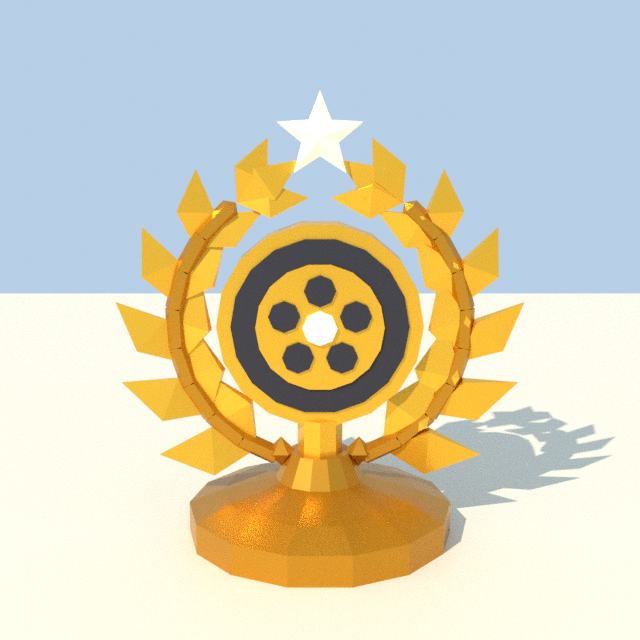
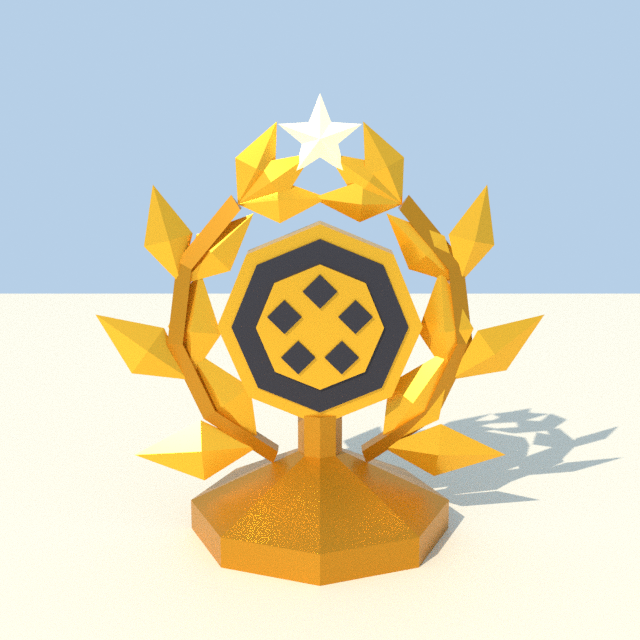
Lighter FilmCamera, TrophyGold, FestivalLaurel and PalmTree meshes
Same shapes and colors in far fewer triangles (camera 844 -> 290, trophy 604 -> 248,
laurel 1196 -> 386, palm 1084 -> 412); each script asserts its budget. Old vs new preview in
art/previews/lighter_props.png.

Changed region(s): [[0.1562, 0.1875, 0.9688, 0.9375]]

diff --git a/art/blender/festival_laurel.py b/art/blender/festival_laurel.py
@@ -18,7 +18,7 @@ import mmkit  # noqa: E402
 REEL_Z = 1.55  # reel centre height
 REEL_R = 0.72
 WREATH_R = 1.02  # leaves sit on this circle round the reel centre
-LEAVES = 6  # per branch
+LEAVES = 4  # per branch, in pairs
 
 
 def T(x, y, z):
@@ -30,19 +30,28 @@ def R(angle, axis):
 
 
 def leaf(m, mat, matrix, size=1.0):
-    """A pointed low-poly leaf in the XZ plane, along +Z from its stem at the origin."""
-    w, t = mmkit.studs(0.15 * size), mmkit.studs(0.04)
-    length = mmkit.studs(0.62 * size)
-    verts = [
-        (0, 0, 0),
-        (-w, -t, length * 0.45),
-        (w, -t, length * 0.45),
-        (0, 0, length),
-        (-w, t, length * 0.45),
-        (w, t, length * 0.45),
-    ]
-    faces = [(0, 2, 1), (1, 2, 3), (0, 1, 4), (0, 4, 5), (0, 5, 2), (4, 3, 5), (1, 3, 4), (2, 5, 3)]
+    """A pointed low-poly leaf in the XZ plane, along +Z from its stem at the origin: a ridge
+    on the front (-Y), flat at the back. 6 triangles."""
+    w, t = mmkit.studs(0.17 * size), mmkit.studs(0.07)
+    length = mmkit.studs(0.7 * size)
+    verts = [(0, 0, 0), (w, 0, length * 0.45), (0, 0, length), (-w, 0, length * 0.45), (0, -t, length * 0.45)]
+    faces = [(0, 1, 4), (1, 2, 4), (2, 3, 4), (3, 0, 4), (0, 3, 2, 1)]
     m._add(verts, faces, mat, matrix)
+
+
+def stalk(m, mat, side):
+    """The bent branch as one three-sided tube along the wreath circle."""
+    steps, r = 4, 0.08
+    rings = []
+    for i in range(steps + 1):
+        a = math.radians(-72 + 128 * i / steps)
+        c = Vector((side * math.cos(a) * WREATH_R, 0, REEL_Z + math.sin(a) * WREATH_R))
+        out = Vector((side * math.cos(a), 0, math.sin(a)))
+        rings.append([c + r * (math.cos(b) * out + math.sin(b) * Vector((0, 1, 0))) for b in (2 * math.pi * k / 3 for k in range(3))])
+    verts = [mmkit.studs(1) * v for ring in rings for v in ring]
+    faces = [(3 * i + k, 3 * i + (k + 1) % 3, 3 * i + 3 + (k + 1) % 3, 3 * i + 3 + k) for i in range(steps) for k in range(3)]
+    faces += [(0, 1, 2), (3 * steps + 2, 3 * steps + 1, 3 * steps)]
+    m._add(verts, faces, mat, Matrix.Identity(4))
 
 
 def build():
@@ -52,44 +61,26 @@ def build():
     film = m.mat("Charcoal", metallic=0.2)
     shine = m.mat("Light", emission=0.6)
 
-    # Round foot and a short stem up to the wreath.
-    m.lathe([(0, 0), (0.95, 0), (0.95, 0.22), (0.7, 0.32), (0.32, 0.42), (0.22, 0.62), (0, 0.62)], dark_gold, segments=14)
-    m.cylinder(0.16, 0.3, at=(0, 0, 0.72), mat=gold, segments=8)
+    # Round foot and the stem up to the wreath, in one piece.
+    m.lathe([(0.95, 0), (0.95, 0.22), (0.16, 0.6), (0.16, 0.9), (0, 0.9)], dark_gold, segments=8)
 
-    # The film reel, facing the front: a gold disc with a dark film band and five round holes.
+    # The film reel, facing the front: a gold disc with a dark film band and five holes.
     reel = T(0, 0, REEL_Z)
-    m.cylinder(REEL_R, 0.22, mat=gold, segments=18, matrix=reel, axis="Y")
-    m.cylinder(REEL_R * 0.86, 0.26, mat=film, segments=18, matrix=reel, axis="Y")
-    m.cylinder(REEL_R * 0.62, 0.3, mat=gold, segments=18, matrix=reel, axis="Y")
+    m.cylinder(REEL_R, 0.22, mat=gold, segments=8, matrix=reel, axis="Y")
+    m.cylinder(REEL_R * 0.86, 0.26, mat=film, segments=8, matrix=reel, axis="Y")
+    m.cylinder(REEL_R * 0.62, 0.3, mat=gold, segments=8, matrix=reel, axis="Y")
     for k in range(5):
         a = math.pi / 2 + 2 * math.pi * k / 5
         x, z = math.cos(a) * REEL_R * 0.36, math.sin(a) * REEL_R * 0.36
-        m.cylinder(0.11, 0.34, at=(x, 0, z), mat=film, segments=8, matrix=reel, axis="Y")
-    m.cylinder(0.12, 0.36, mat=shine, segments=8, matrix=reel, axis="Y")
+        m.cylinder(0.12, 0.34, at=(x, 0, z), mat=film, segments=4, matrix=reel, axis="Y")
 
     # Two laurel branches curving up either side of the reel, from the stem to near the top.
     for side in (-1, 1):
-        # The branch: a thin bent stalk of short segments.
-        steps = 8
-        for i in range(steps):
-            a0 = math.radians(-72 + 125 * i / steps)
-            a1 = math.radians(-72 + 125 * (i + 1) / steps)
-            p0 = Vector((side * math.cos(a0) * WREATH_R, 0, REEL_Z + math.sin(a0) * WREATH_R))
-            p1 = Vector((side * math.cos(a1) * WREATH_R, 0, REEL_Z + math.sin(a1) * WREATH_R))
-            mid = (p0 + p1) / 2
-            direction = (p1 - p0).normalized()
-            tilt = math.atan2(direction.x, direction.z)
-            half = (p1 - p0).length / 2
-            m.lathe(
-                [(0, -half - 0.05), (0.07, -half), (0.07, half), (0, half + 0.05)],
-                dark_gold,
-                segments=6,
-                matrix=T(mid.x, mid.y, mid.z) @ R(tilt, "Y"),
-            )
+        stalk(m, dark_gold, side)
         # Leaves in pairs along it, pointing up the branch and splaying in and out.
         for i in range(LEAVES):
             a = math.radians(-64 + 120 * i / (LEAVES - 1))
-            size = 1.15 - 0.35 * i / (LEAVES - 1)  # big at the foot, small at the tips
+            size = 1.3 - 0.4 * i / (LEAVES - 1)  # big at the foot, small at the tips
             cx, cz = side * math.cos(a) * WREATH_R, REEL_Z + math.sin(a) * WREATH_R
             # Tangent up the branch.
             tangent = math.atan2(side * -math.sin(a), math.cos(a))
@@ -99,9 +90,7 @@ def build():
                 leaf(m, gold, T(cx, 0, cz) @ R(lean, "Y") @ face_turn, size)
         # The leaf at the tip, straight on.
         tip = math.radians(56)
-        leaf(m, gold, T(side * math.cos(tip) * WREATH_R, 0, REEL_Z + math.sin(tip) * WREATH_R) @ R(math.atan2(side * -math.sin(tip), math.cos(tip)), "Y"), 0.85)
-        # A berry where the branch starts.
-        m.lathe([(0, -0.11), (0.11, 0), (0, 0.11)], dark_gold, segments=6, matrix=T(side * 0.28, 0, REEL_Z - WREATH_R + 0.08))
+        leaf(m, gold, T(side * math.cos(tip) * WREATH_R, 0, REEL_Z + math.sin(tip) * WREATH_R) @ R(math.atan2(side * -math.sin(tip), math.cos(tip)), "Y"), 0.9)
 
     # A little star on top, between the branch tips.
     star_z = REEL_Z + WREATH_R + 0.28
@@ -110,17 +99,16 @@ def build():
         r = 0.3 if k % 2 == 0 else 0.13
         a = math.pi / 2 + math.pi * k / 5
         points.append((math.cos(a) * r, math.sin(a) * r))
-    depth = mmkit.studs(0.1)
-    verts = [(mmkit.studs(x), -depth, mmkit.studs(z)) for x, z in points] + [(mmkit.studs(x), depth, mmkit.studs(z)) for x, z in points]
-    verts += [(0, -depth * 1.8, 0), (0, depth * 1.8, 0)]
+    # One outline ring and a pole front and back: a faceted star in 20 triangles.
+    depth = mmkit.studs(0.18)
+    verts = [(mmkit.studs(x), 0, mmkit.studs(z)) for x, z in points] + [(0, -depth, 0), (0, depth, 0)]
     faces = []
     for k in range(10):
         j = (k + 1) % 10
-        faces.append((20, j, k))
-        faces.append((21, 10 + k, 10 + j))
-        faces.append((k, j, 10 + j, 10 + k))
+        faces.append((10, j, k))
+        faces.append((11, k, j))
     m._add(verts, faces, shine, T(0, 0, star_z))
     return m.obj()
 
 
-mmkit.finish(build(), "festival_laurel", max_tris=2000)
+mmkit.finish(build(), "festival_laurel", max_tris=400)

diff --git a/art/blender/palm_tree.py b/art/blender/palm_tree.py
@@ -26,6 +26,28 @@ def trunk_point(t):
     return Vector((x, 0, HEIGHT * 0.85 * t)), angle
 
 
+def frond(m, mat, matrix, pitch, pieces=5, length=1.8):
+    """One arching blade: a three-sided strip (flat underside, raised rib on top) that tapers to
+    a short point and droops toward the tip. Starts at the crown origin, pointing along +Y."""
+    rings, pos = [], Vector((0, 0, 0.7))
+    for k in range(pieces):
+        width = 1.7 * (1 - k / (pieces + 1)) + 0.25
+        up = Vector((0, -math.sin(pitch), math.cos(pitch)))
+        rings.append([pos + Vector((-width / 2, 0, 0)), pos + Vector((width / 2, 0, 0)), pos + up * 0.3])
+        pos = pos + Vector((0, math.cos(pitch), math.sin(pitch))) * (length if k < pieces - 1 else length / 2)
+        pitch -= math.radians(22)  # droops more toward the tip
+    verts = [mmkit.studs(1) * v for ring in rings for v in ring] + [mmkit.studs(1) * pos]
+    tip = len(verts) - 1
+    faces = [(0, 2, 1)]
+    for i in range(pieces - 1):
+        for k in range(3):
+            n = (k + 1) % 3
+            faces.append((3 * i + k, 3 * i + n, 3 * i + 3 + n, 3 * i + 3 + k))
+    last = 3 * (pieces - 1)
+    faces += [(last + k, last + (k + 1) % 3, tip) for k in range(3)]
+    m._add(verts, faces, mat, matrix)
+
+
 def build():
     m = mmkit.Model("PalmTree")
     bark = m.mat("Bark")
@@ -34,7 +56,8 @@ def build():
     leaf_dark = m.mat("DarkGreen")
     nut = m.mat("#6B4426")
 
-    # Trunk: stacked tapered octagons with a lip on each, so it reads as a palm trunk.
+    # Trunk: stacked tapered hexagons, each wider at its foot than the one below ends, so the
+    # rings read as a palm trunk.
     for i in range(SEGMENTS):
         t0 = i / SEGMENTS
         p, angle = trunk_point(t0)
@@ -42,50 +65,30 @@ def build():
         r0 = 0.85 - 0.35 * t0
         r1 = 0.85 - 0.35 * (i + 1) / SEGMENTS
         matrix = Matrix.Translation(Vector([mmkit.studs(c) for c in p])) @ Matrix.Rotation(angle, 4, "Y")
-        m.lathe(
-            [(0, 0), (r0 * 1.12, 0), (r0 * 1.12, 0.3), (r0, 0.45), (r1, length + 0.05), (0, length + 0.05)],
-            bark if i % 2 == 0 else wood,
-            segments=8,
-            matrix=matrix,
-        )
+        m.lathe([(r0 * 1.15, 0), (r1 * 0.95, length + 0.05)], bark if i % 2 == 0 else wood, segments=6, matrix=matrix)
 
     top, top_angle = trunk_point(1.0)
     crown = Matrix.Translation(Vector([mmkit.studs(c) for c in top])) @ Matrix.Rotation(top_angle * 0.5, 4, "Y")
-    m.lathe([(0, -0.3), (1.0, -0.2), (1.1, 0.5), (0.6, 1.0), (0, 1.1)], leaf_dark, segments=8, matrix=crown)
+    m.lathe([(0, -0.3), (1.1, 0.3), (0.6, 1.0), (0, 1.1)], leaf_dark, segments=6, matrix=crown)
 
-    # Fronds: 8 arching blades made of tapering boxes, alternating two greens.
+    # Fronds: 8 arching blades, alternating two greens.
     fronds = 8
     for f in range(fronds):
         yaw = 2 * math.pi * f / fronds + 0.2
-        color = leaf if f % 2 == 0 else leaf_dark
-        pos = Vector((0, 0, 0.7))
         pitch = math.radians(28 + (f % 3) * 6)  # starts rising
-        pieces = 5
-        for k in range(pieces):
-            length = 1.6
-            width = 1.7 * (1 - k / (pieces + 1)) + 0.25
-            direction = Vector((0, math.cos(pitch), math.sin(pitch)))
-            mid = pos + direction * (length / 2)
-            local = (
-                Matrix.Rotation(yaw, 4, "Z")
-                @ Matrix.Translation(Vector([mmkit.studs(c) for c in mid]))
-                @ Matrix.Rotation(pitch, 4, "X")
-            )
-            m.box((width, length + 0.15, 0.22), mat=color, matrix=crown @ local)
-            pos = pos + direction * length
-            pitch -= math.radians(22)  # droops more toward the tip
+        frond(m, leaf if f % 2 == 0 else leaf_dark, crown @ Matrix.Rotation(yaw, 4, "Z"), pitch)
 
     # Coconuts tucked under the crown.
     for k in range(3):
         a = 2 * math.pi * k / 3 + 0.5
         at = Vector((0.75 * math.cos(a), 0.75 * math.sin(a), -0.35))
         m.lathe(
-            [(0, -0.45), (0.35, -0.3), (0.45, 0), (0.35, 0.3), (0, 0.45)],
+            [(0, -0.45), (0.45, 0), (0, 0.45)],
             nut,
-            segments=6,
+            segments=4,
             matrix=crown @ Matrix.Translation(Vector([mmkit.studs(c) for c in at])),
         )
     return m.obj()
 
 
-mmkit.finish(build(), "palm_tree", max_tris=2000)
+mmkit.finish(build(), "palm_tree", max_tris=450)

diff --git a/art/blender/film_camera.py b/art/blender/film_camera.py
@@ -28,8 +28,8 @@ def build():
     glass = m.mat("Blue", metallic=0.3)
     wood = m.mat("Wood")
 
-    # Tripod: three splayed legs to a head plate.
-    head_z = 3.6
+    # Tripod: three splayed three-sided legs straight up to the camera body.
+    head_z = 3.7
     for k in range(3):
         a = 2 * math.pi * k / 3 + math.pi / 2
         foot = Vector((1.5 * math.cos(a), 1.5 * math.sin(a), 0))
@@ -43,34 +43,28 @@ def build():
             @ Matrix.Rotation(heading, 4, "Z")
             @ Matrix.Rotation(tilt, 4, "Y")
         )
-        m.box((0.3, 0.3, d.length), mat=wood, matrix=leg)
-        m.box((0.45, 0.45, 0.25), at=(foot.x, foot.y, 0.12), mat=body)
-    m.lathe([(0, head_z - 0.2), (0.6, head_z - 0.2), (0.6, head_z + 0.1), (0, head_z + 0.1)], steel, segments=8)
+        m.cylinder(0.2, d.length, mat=wood, segments=3, matrix=leg)
 
     # Camera body with a gold trim band.
-    base = head_z + 0.1
+    base = head_z
     m.box((1.4, 2.4, 1.6), at=(0, 0.1, base + 0.8), mat=body)
     m.box((1.5, 2.5, 0.2), at=(0, 0.1, base + 0.3), mat=trim)
     m.box((0.1, 1.2, 0.7), at=(0.75, 0.3, base + 0.9), mat=red)  # side plate
-    # Lens barrel and hood toward -Y.
-    m.cylinder(0.45, 0.9, at=(0, -1.5, base + 0.9), mat=steel, segments=12, axis="Y")
-    m.cylinder(0.6, 0.35, at=(0, -2.1, base + 0.9), mat=body, segments=12, axis="Y")
-    m.cylinder(0.42, 0.05, at=(0, -2.3, base + 0.9), mat=glass, segments=12, axis="Y")
+    # Lens barrel and hood toward -Y, with a glass dome in the hood.
+    m.cylinder(0.45, 0.9, at=(0, -1.5, base + 0.9), mat=steel, segments=6, axis="Y")
+    m.cylinder(0.6, 0.35, at=(0, -2.1, base + 0.9), mat=body, segments=8, axis="Y")
+    lens = T(0, -2.27, base + 0.9) @ Matrix.Rotation(math.pi / 2, 4, "X")
+    m.lathe([(0.42, 0), (0, 0.05)], glass, segments=8, matrix=lens)
     # Viewfinder and crank.
     m.box((0.35, 0.8, 0.35), at=(-0.85, 0.5, base + 1.3), mat=body)
-    m.cylinder(0.08, 0.6, at=(0.95, 0.5, base + 0.7), mat=trim, segments=6, axis="X")
-    m.box((0.12, 0.12, 0.5), at=(1.25, 0.5, base + 0.5), mat=trim)
+    m.box((0.5, 0.12, 0.12), at=(1.0, 0.5, base + 0.7), mat=trim)
 
-    # Two big reels on top (front and back), with spokes.
+    # Two big reels on top (front and back): gold faces with a steel band round the edge.
     for y, r in ((-0.55, 1.05), (0.95, 1.05)):
         z = base + 1.6 + r
-        m.cylinder(r, 0.3, at=(0, y, z), mat=steel, segments=16, axis="X")
-        m.cylinder(r + 0.08, 0.12, at=(0.2, y, z), mat=trim, segments=16, axis="X")
-        m.cylinder(r + 0.08, 0.12, at=(-0.2, y, z), mat=trim, segments=16, axis="X")
-        for k in range(3):
-            a = 2 * math.pi * k / 3
-            m.cylinder(0.22, 0.34, at=(0, y + 0.55 * math.cos(a), z + 0.55 * math.sin(a)), mat=body, segments=8, axis="X")
+        m.cylinder(r + 0.08, 0.52, at=(0, y, z), mat=trim, segments=10, axis="X")
+        m.cylinder(r + 0.1, 0.18, at=(0, y, z), mat=steel, segments=10, axis="X")
     return m.obj()
 
 
-mmkit.finish(build(), "film_camera", max_tris=2000)
+mmkit.finish(build(), "film_camera", max_tris=300)

diff --git a/art/blender/trophy_gold.py b/art/blender/trophy_gold.py
@@ -21,7 +21,8 @@ EXPORTS = os.path.join(REPO, "art", "exports")
 
 STUD = 0.28  # metres per stud
 HEIGHT = 2.0 * STUD  # trophy is about 2 studs tall
-SEGMENTS = 12  # low poly round parts
+SEGMENTS = 10  # low poly round parts
+MAX_TRIS = 250  # ART_STYLE small prop budget (was 604 before the lighter props pass)
 
 
 def hex_to_linear(hex_color):
@@ -91,10 +92,10 @@ def box(bm, center, size, mat_index):
 
 
 def handle(bm, side, mat_index):
-    """Chunky C-shaped handle on the +X (side=1) or -X (side=-1) of the cup."""
-    major, minor = 0.055, 0.016
+    """Chunky C-shaped handle on the +X (side=1) or -X (side=-1) of the cup: a square tube."""
+    major, minor = 0.055, 0.018
     cx, cz = side * 0.125, 0.42
-    arc = [math.radians(a) for a in range(-100, 101, 25)]  # open toward the cup
+    arc = [math.radians(a) for a in range(-100, 101, 50)]  # open toward the cup
     rings = []
     for a in arc:
         center = Vector((cx + side * major * math.cos(a), 0, cz + major * math.sin(a)))
@@ -102,12 +103,12 @@ def handle(bm, side, mat_index):
         rings.append(
             [
                 bm.verts.new(center + minor * (math.cos(b) * out + math.sin(b) * Vector((0, 1, 0))))
-                for b in (2 * math.pi * k / 6 for k in range(6))
+                for b in (2 * math.pi * k / 4 + math.pi / 4 for k in range(4))
             ]
         )
     for lower, upper in zip(rings, rings[1:]):
-        for k in range(6):
-            n = (k + 1) % 6
+        for k in range(4):
+            n = (k + 1) % 4
             bm.faces.new((lower[k], lower[n], upper[n], upper[k])).material_index = mat_index
     for ring in (rings[0], rings[-1]):
         bm.faces.new(ring).material_index = mat_index
@@ -132,20 +133,12 @@ def build():
             (0, 0.11),
             (0.07, 0.11),
             (0.07, 0.13),
-            (0.03, 0.15),
-            (0.025, 0.2),
-            (0.045, 0.22),
-            (0.025, 0.24),
-            (0.04, 0.27),
-            (0.1, 0.32),
-            (0.13, 0.4),
-            (0.145, 0.5),
-            (0.155, 0.535),
+            (0.028, 0.16),
+            (0.028, 0.26),
+            (0.115, 0.34),
             (0.155, HEIGHT),
-            (0.13, HEIGHT),
-            (0.12, 0.5),
-            (0.1, 0.41),
-            (0, 0.37),
+            (0.125, HEIGHT),
+            (0, 0.4),
         ],
         0,
     )
@@ -247,6 +240,7 @@ def main():
         f"size {max(xs) - min(xs):.3f} x {max(ys) - min(ys):.3f} x {max(zs) - min(zs):.3f} m "
         f"({(max(zs) - min(zs)) / STUD:.2f} studs tall), min z {min(zs):.3f}"
     )
+    assert triangle_count(obj) <= MAX_TRIS, f"Trophy_Gold is over its {MAX_TRIS} triangle budget"
     cam = setup_scene()
     render_view(cam, "front", 0, 12)
     render_view(cam, "34", 40, 25)
